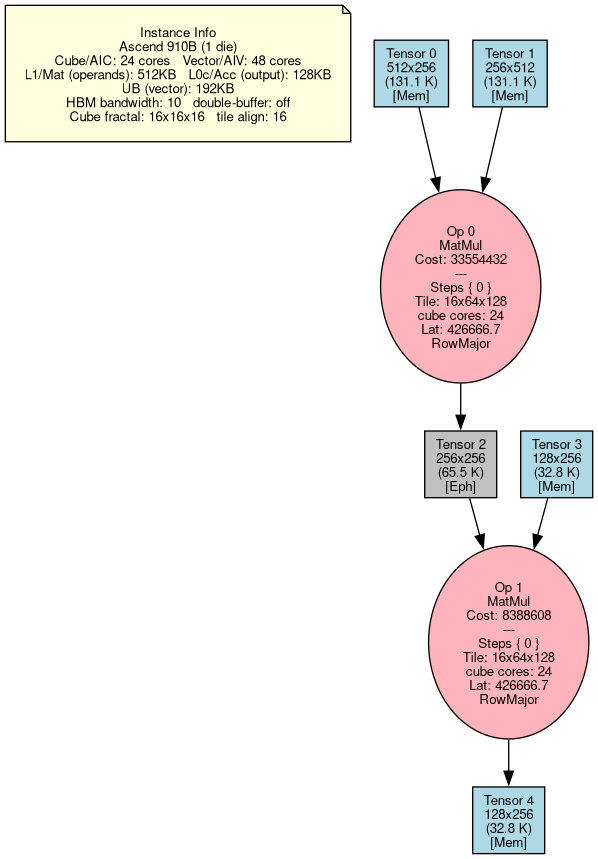
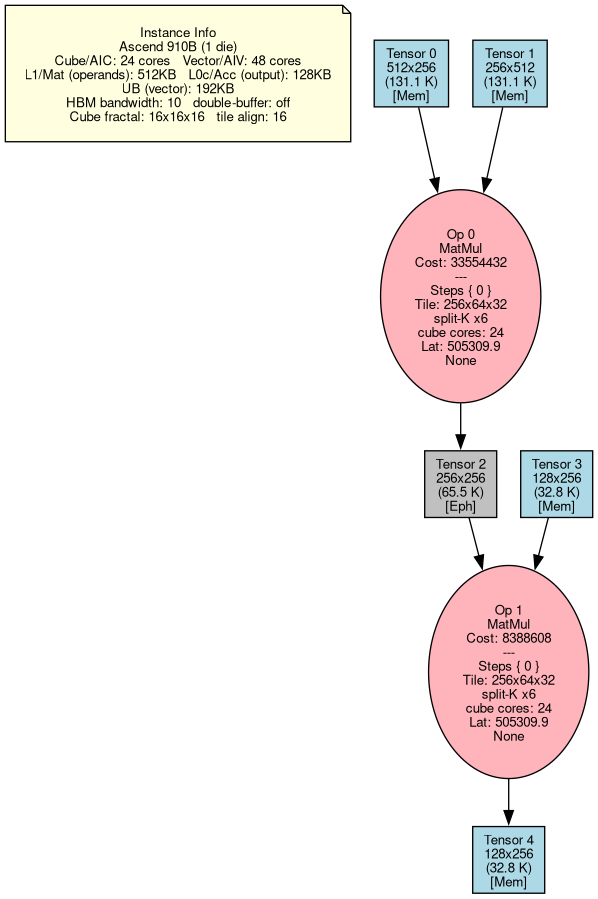
feat(910b): charge intermediate recompute — fuse only when it strictly helps
The BSP cost billed a fused chain's intermediate as ephemeral (zero DDR)
unconditionally. That is only true when the subgraph is parallelized over the
SHARED output dim M and M fills the cores. When M can't fill them, the sink
tiles over N instead, and every sink column-tile in an M-band needs the SAME
intermediate band — so each owning core RECOMPUTES it. The model ignored that,
undercounting fused cost and over-fusing small-M / wide-intermediate chains.

Fix: an intermediate matmul's compute is multiplied by num_tw (the sink's
N-tiling factor) — the band is recomputed once per sink column-tile. num_tw==1
(M fills the cores) => no recompute, truly ephemeral. The alternative to
recompute — sharing the band across cores via DDR — is just splitting the
subgraph, costed separately, so the partitioner picks the cheaper. No hard
"refuse to fuse" rule is needed: the grouping decision falls out of the cost.

Decision matrix now correct (verified end-to-end through the partitioner):
- fat-sink chain, big intermediate, M fills cores  -> FUSE (saves C round-trip)
- small shared M (sink tiles over N)               -> SPLIT (recompute > round-trip)
- wide intermediate (huge recompute)               -> SPLIT
- independent matmuls / both compute-bound         -> SPLIT (no benefit)

Added test_fusion_decision_matrix (asserts fuse/split per case) + two lose-case
benchmarks (910b-2mm-small-m, 910b-2mm-wide-c) that the solver SPLITS end-to-end.
[…]

diff --git a/test/ascend_910b_test.cpp b/test/ascend_910b_test.cpp
@@ -362,8 +362,10 @@ static Problem mk_chained(int64_t M, int64_t K1, int64_t N1, int64_t N2, int64_t
 // --- two matmuls: chained fusion compute is sane; split-K is per-matmul -------
 static void test_two_matmul() {
     std::cout << "[2MM] two-matmul subgraph: chained fusion compute + per-matmul split-K\n";
-    // Chained, compute-heavy. base_cost = native^2 * K (per-native-tile FLOPs).
-    auto p = mk_chained(128, 256, 128, 64, 16384 * 256, 16384 * 128);
+    // Chained, FAT sink E[128,256] (fills the cores so the fused case needs no
+    // heavy split-K), large intermediate C[256,256]. base_cost ignored (geometry).
+    auto p = mk_chained(256, 512, 256, 128, 16384 * 512, 16384 * 256);
+    p.cube_compute_cost = 1000;  // DDR-relevant regime (see test_fusion_decision_matrix)
     DAG dag = DAG::build(p);
     double m1 = Subgraph::create(p, dag, {0})->best_cost().latency;
     double m2 = Subgraph::create(p, dag, {1})->best_cost().latency;
@@ -374,12 +376,12 @@ static void test_two_matmul() {
     CHECK("2MM: chained fused >= each part (compute counted per-matmul)",
           fused >= m1 - 0.5 && fused >= m2 - 0.5);
     // BSP model: the intermediate T is EPHEMERAL when fused (kept on-chip via the
-    // M-partition, no DDR round-trip). Separately, mm2 must reload T from DDR. So
-    // fusion strictly helps — fused < M1 + M2 — even when largely compute-bound.
-    // (Under the old hidden-merge model these were equal; the on-chip intermediate
-    // benefit was invisible.) The fused floor is the pure compute backbone
-    // (ΣW/cores) with no merge tail, since the sink fills the cores spatially.
-    CHECK("2MM: chained fused < M1+M2 (fusion keeps the intermediate on-chip)",
+    // M-partition, no DDR round-trip), so separately mm2 must reload T from DDR.
+    // With a fat sink the fused case parallelizes mostly over M (little recompute),
+    // so fusion strictly helps — fused < M1 + M2. (For a THIN sink the fused case
+    // is forced into split-K or N-tile recompute and can LOSE — see test_fusion_
+    // decision_matrix; that is the correct, faithful outcome, not a regression.)
+    CHECK("2MM: chained (fat sink) fused < M1+M2 (keeps intermediate on-chip)",
           fused < m1 + m2 - 0.5);
 
     // (2) INDEPENDENT shared-input: Q=X@Wq, K=X@Wk (same X). Both cube, no
@@ -706,9 +708,49 @@ static void test_visualize() {
     std::cout << "======================================================================\n\n";
 }
 
+// --- fusion decision matrix: fuse only when it strictly helps -----------------
+// Encodes the BSP + recompute model's verdicts. A fused chain is parallelized
+// over the SHARED dim M; an intermediate is ephemeral ONLY when M fills the
+// cores (num_tw==1). When the sink must tile over N (M too small, or a thin
+// sink), each sink column-tile recomputes the intermediate band (compute x
+// num_tw) — so fusion can LOSE to splitting, which round-trips the intermediate
+// via DDR instead. The partitioner picks the cheaper; these assert which wins.
+static void test_fusion_decision_matrix() {
+    std::cout << "[FDM] fusion decision matrix (fuse iff strictly cheaper than split)\n";
+    auto cmp = [](const char* tag, int64_t M, int64_t K1, int64_t N1, int64_t N2) {
+        auto p = mk_chained(M, K1, N1, N2, 1000, 1000);
+        // Lower the cube cost into the regime where DDR matters (matches the
+        // benchmarks). At set_910b's 4096 the chain is so compute-bound that the
+        // intermediate's round-trip is fully hidden and fusion is latency-neutral
+        // for ALL shapes — the fuse-vs-split decision only varies once DDR binds.
+        p.cube_compute_cost = 1000;
+        DAG dag = DAG::build(p);
+        auto fz = Subgraph::create(p, dag, {0, 1});
+        double f = fz ? fz->best_cost().latency : 1e18;
+        double s = Subgraph::create(p, dag, {0})->best_cost().latency +
+                   Subgraph::create(p, dag, {1})->best_cost().latency;
+        std::cout << "    " << tag << ": fused=" << f << " split=" << s
+                  << (f < s ? "  -> FUSE" : "  -> SPLIT") << "\n";
+        return std::pair<double, double>(f, s);
+    };
+    // FAT sink, big intermediate, M fills cores -> fusion saves the C round-trip.
+    auto win = cmp("fuse-wins (fat sink, big C)", 256, 512, 256, 128);
+    CHECK("FDM: fat-sink chain FUSES (fused < split)", win.first < win.second - 0.5);
+    // Small M -> sink tiles over N2 -> intermediate recomputed per column-tile ->
+    // fusion costs more than splitting (which round-trips C via DDR once).
+    auto sm = cmp("small-M (N2-tiled, recompute)", 64, 256, 256, 512);
+    CHECK("FDM: small-M chain SPLITS (recompute makes fusion lose)", sm.first > sm.second + 0.5);
+    // Wide intermediate (huge C compute): recomputing it per column-tile dwarfs
+    // its DDR round-trip -> split.
+    auto wide = cmp("wide-C (huge intermediate)", 256, 512, 2048, 256);
+    CHECK("FDM: wide-intermediate chain SPLITS (recompute >> round-trip)",
+          wide.first > wide.second + 0.5);
+}
+
 int main() {
     test_visualize();
     test_two_matmul();
+    test_fusion_decision_matrix();
     test_two_pool_working_set();
     test_geometry_compute();
     test_pypto_l0_comparison();

diff --git a/src/core/subgraph.cpp b/src/core/subgraph.cpp
@@ -1055,17 +1055,35 @@ CostResult Subgraph::compute_cost(const TileConfig &cfg,
       // output (#native tiles) — for a CHAINED group the intermediate has a
       // different shape than the sink, so a single sink-scaled basis would
       // mis-count it. Single matmul: output == sink, identical to before.
+      // In-subgraph produced/consumed sets: an operand is ephemeral (on-chip) iff
+      // produced within the subgraph; an op is a boundary-output op iff its output
+      // is not consumed within the subgraph.
+      FlatSet<size_t> produced, consumed;
+      for (auto i : ops_) {
+        produced.insert(prob_->ops[i].output());
+        for (auto t : prob_->ops[i].inputs) consumed.insert(t);
+      }
       double total_compute = 0.0;
       for (auto i : ops_) {
         if (prob_->ops[i].type != OpType::MatMul) continue;
         size_t o = prob_->ops[i].output();
+        // RECOMPUTE under the M-partition: an INTERMEDIATE matmul's output is a
+        // sink left-operand band, shared by all sink COLUMN-tiles in the same
+        // M-band. When the sink fills the cores over M alone (num_tw==1) the band
+        // is produced once — truly ephemeral. When M can't fill the cores and the
+        // sink tiles over N (num_tw>1), each owning core recomputes the band, so
+        // the intermediate compute is paid num_tw times. (The alternative — share
+        // the band across cores via DDR — is just splitting the subgraph, costed
+        // separately; the partitioner picks the cheaper.) Boundary/sink outputs
+        // are produced once: factor 1.
+        const double recompute = consumed.count(o) ? (double)num_tw : 1.0;
         if (prob_->cube_compute_cost > 0) {
           // 910B machine model: count the 16x16x16 cube fractals the matmul
           // implies = (out_W/16)(out_H/16)(K/16), times the per-fractal cube cost.
           const double Km = (double)prob_->tensors[prob_->ops[i].inputs[0]].width;  // contraction
           const double fractals = ((double)prob_->tensors[o].width / 16.0) *
                                   ((double)prob_->tensors[o].height / 16.0) * (Km / 16.0);
-          total_compute += fractals * (double)prob_->cube_compute_cost;
+          total_compute += fractals * (double)prob_->cube_compute_cost * recompute;
         } else {
           // Legacy: per-op base_cost interpreted as per-native-128-tile cost.
           total_compute += (double)prob_->ops[i].base_cost *
@@ -1090,14 +1108,7 @@ CostResult Subgraph::compute_cost(const TileConfig &cfg,
       //     lands on the subgraph output only.
       const double M = (double)out_H_, N = (double)out_W_;
       auto sat = [&](double cores) { return std::max(1.0, (double)n_cores / cores); };
-      // In-subgraph produced/consumed sets: an operand is ephemeral (on-chip)
-      // iff produced within the subgraph; an op is a boundary-output op iff its
-      // output is not consumed within the subgraph.
-      FlatSet<size_t> produced, consumed;
-      for (auto i : ops_) {
-        produced.insert(prob_->ops[i].output());
-        for (auto t : prob_->ops[i].inputs) consumed.insert(t);
-      }
+      // (produced/consumed sets built above for the recompute factor are reused.)
       // Sink output store = sum over boundary outputs, byte-based (intermediates
       // are is_internally_produced and excluded).
       double out_store = 0.0;